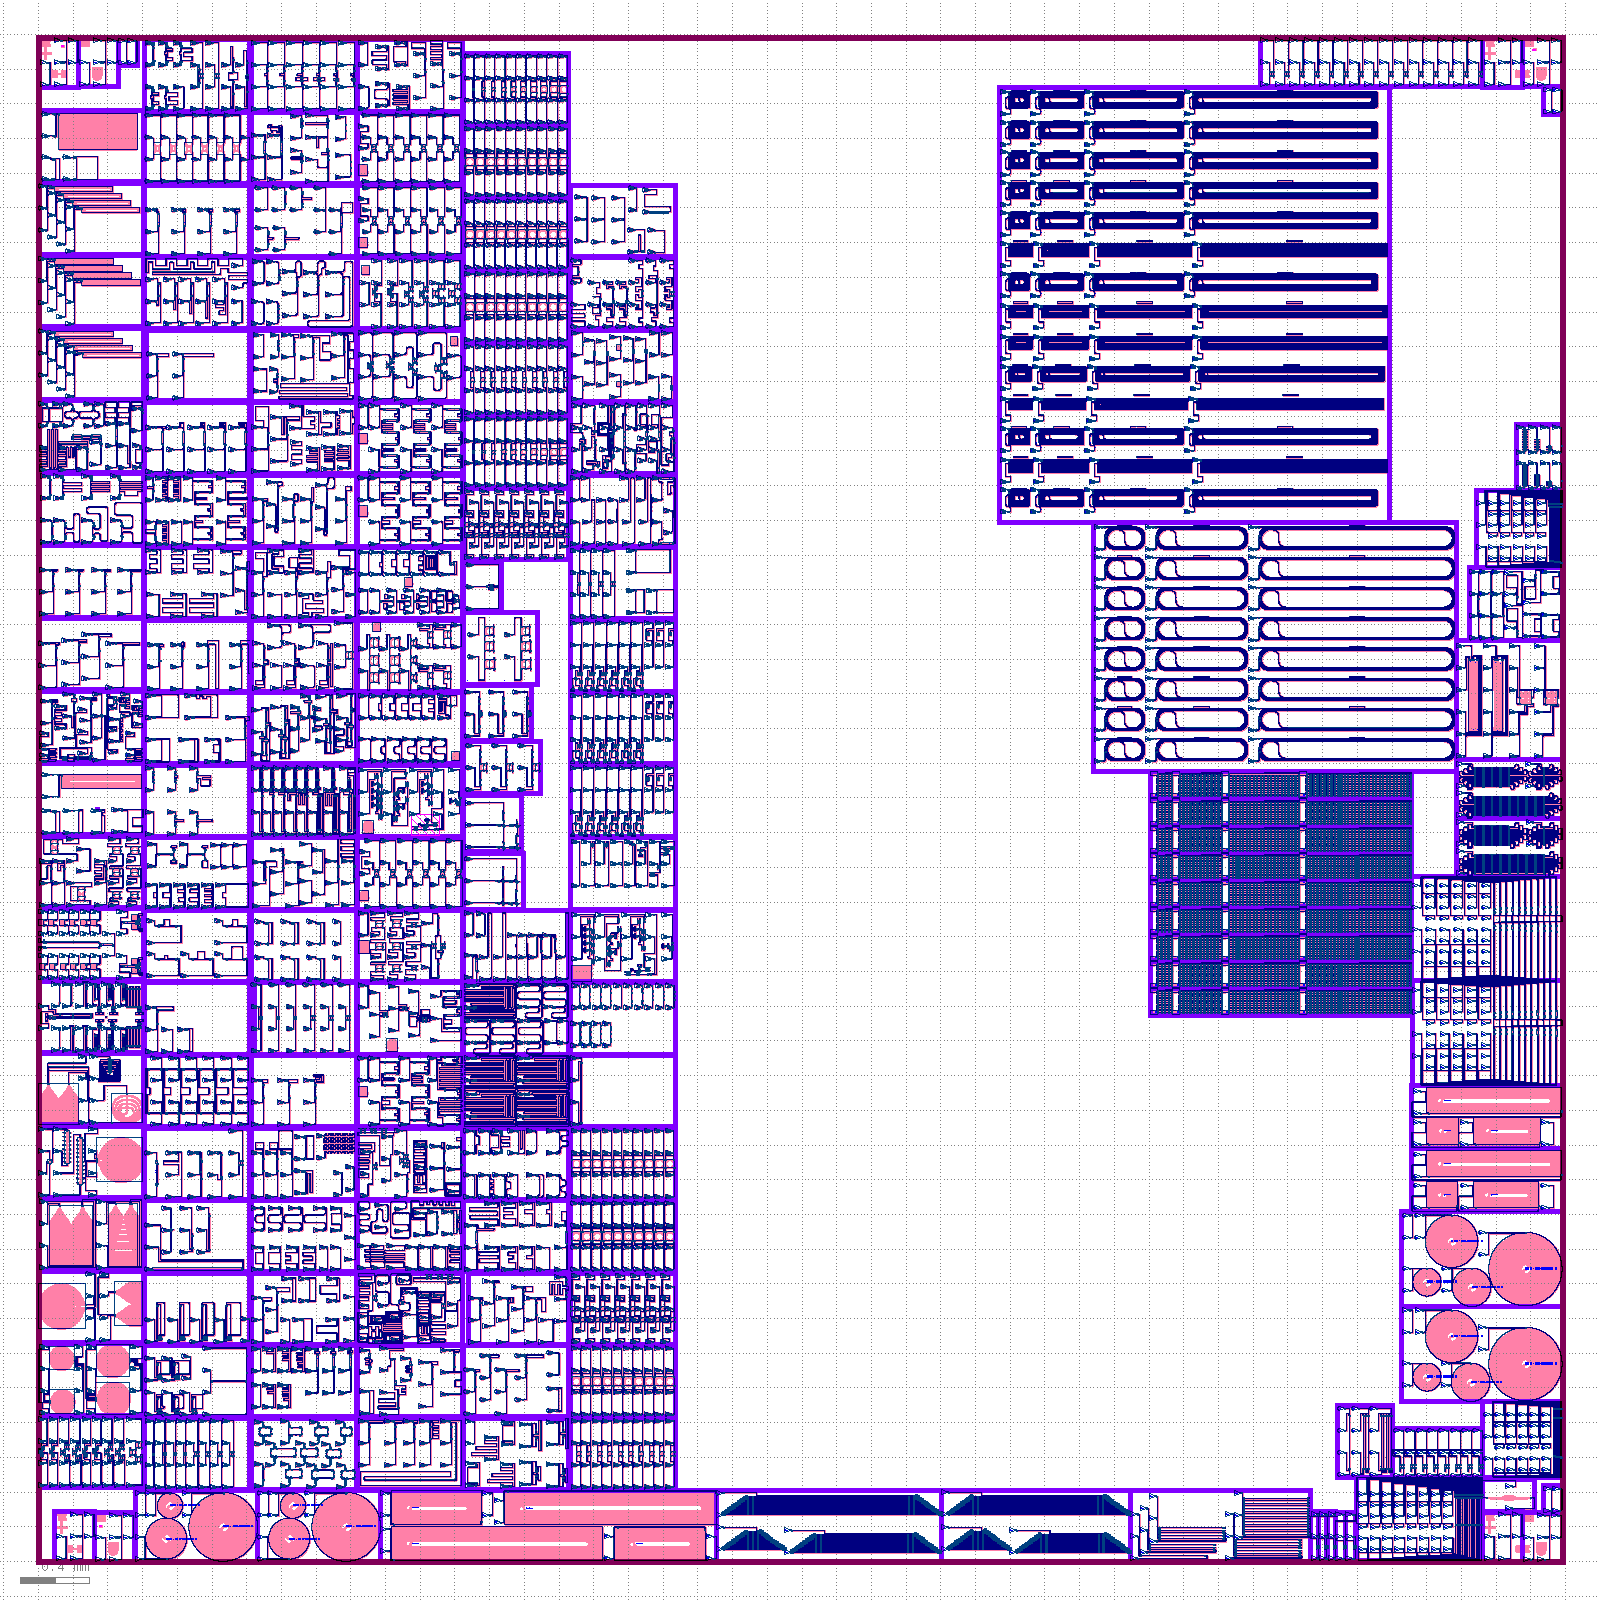
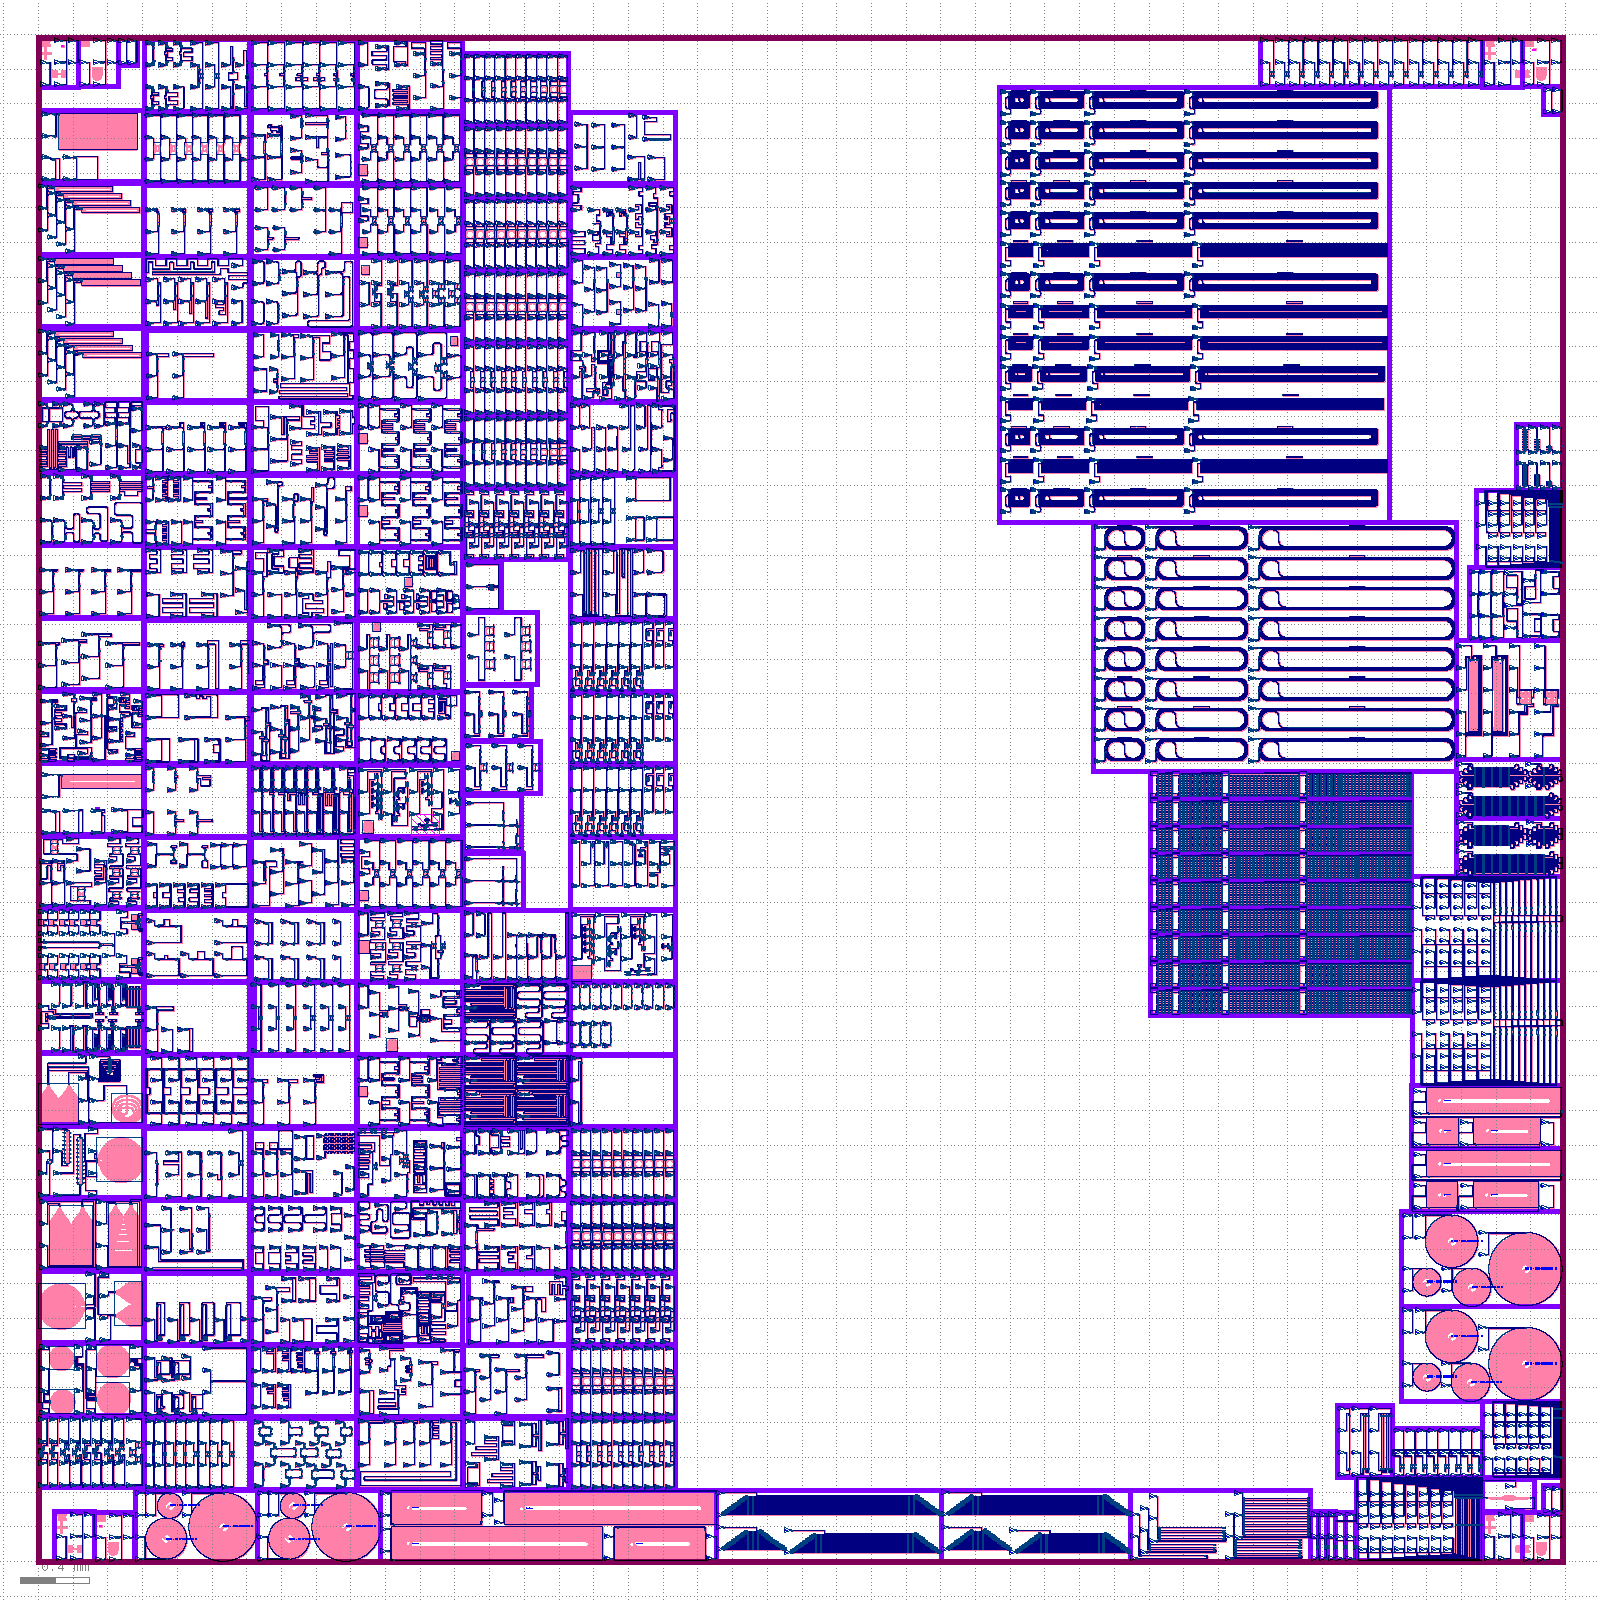
Aggregation layout: https://github.com/SiEPIC/openEBL-2026-05/actions/runs/25964019042/artifacts/7034005605

Changed region(s): [[0.3438, 0.0625, 0.4375, 0.4062]]

diff --git a/README.md b/README.md
@@ -91,5 +91,5 @@ Will be added here.
 
 Click on the following link to download the EBeam.oas merged layout file:
 <!-- start-link -->
-https://github.com/SiEPIC/openEBL-2026-05/actions/runs/25957595451/artifacts/7032038472
+https://github.com/SiEPIC/openEBL-2026-05/actions/runs/25964019042/artifacts/7034005605
 <!-- end-link -->